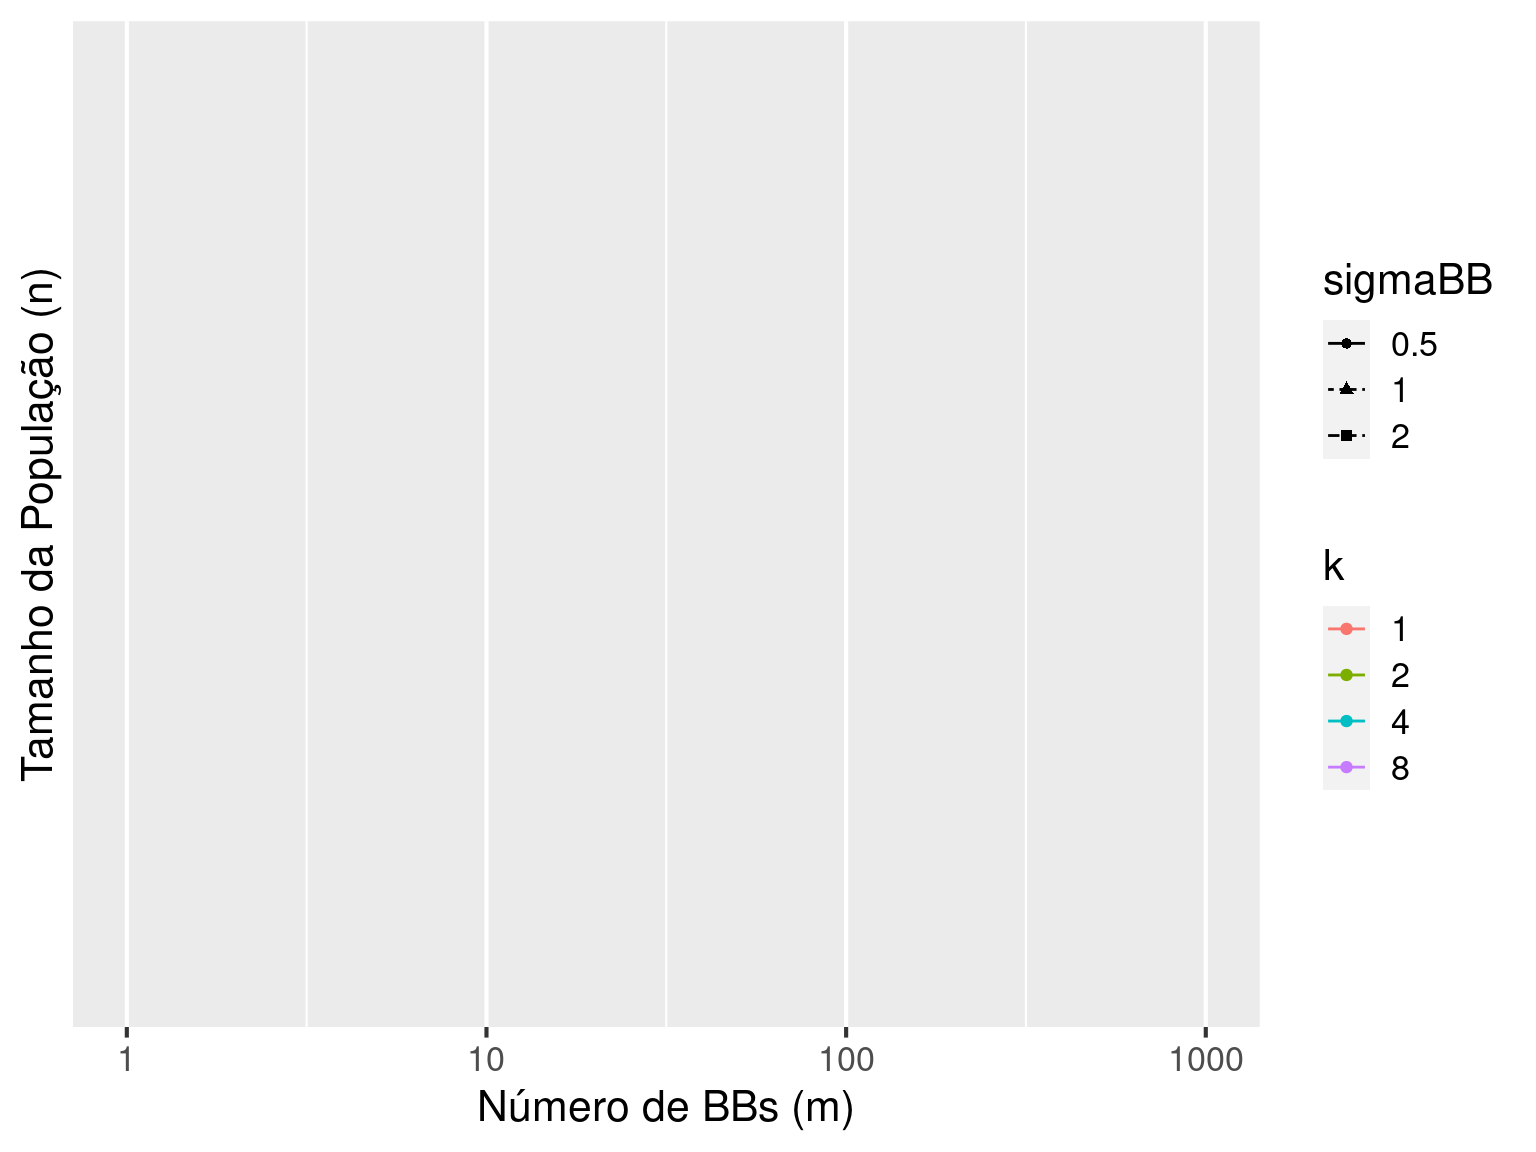
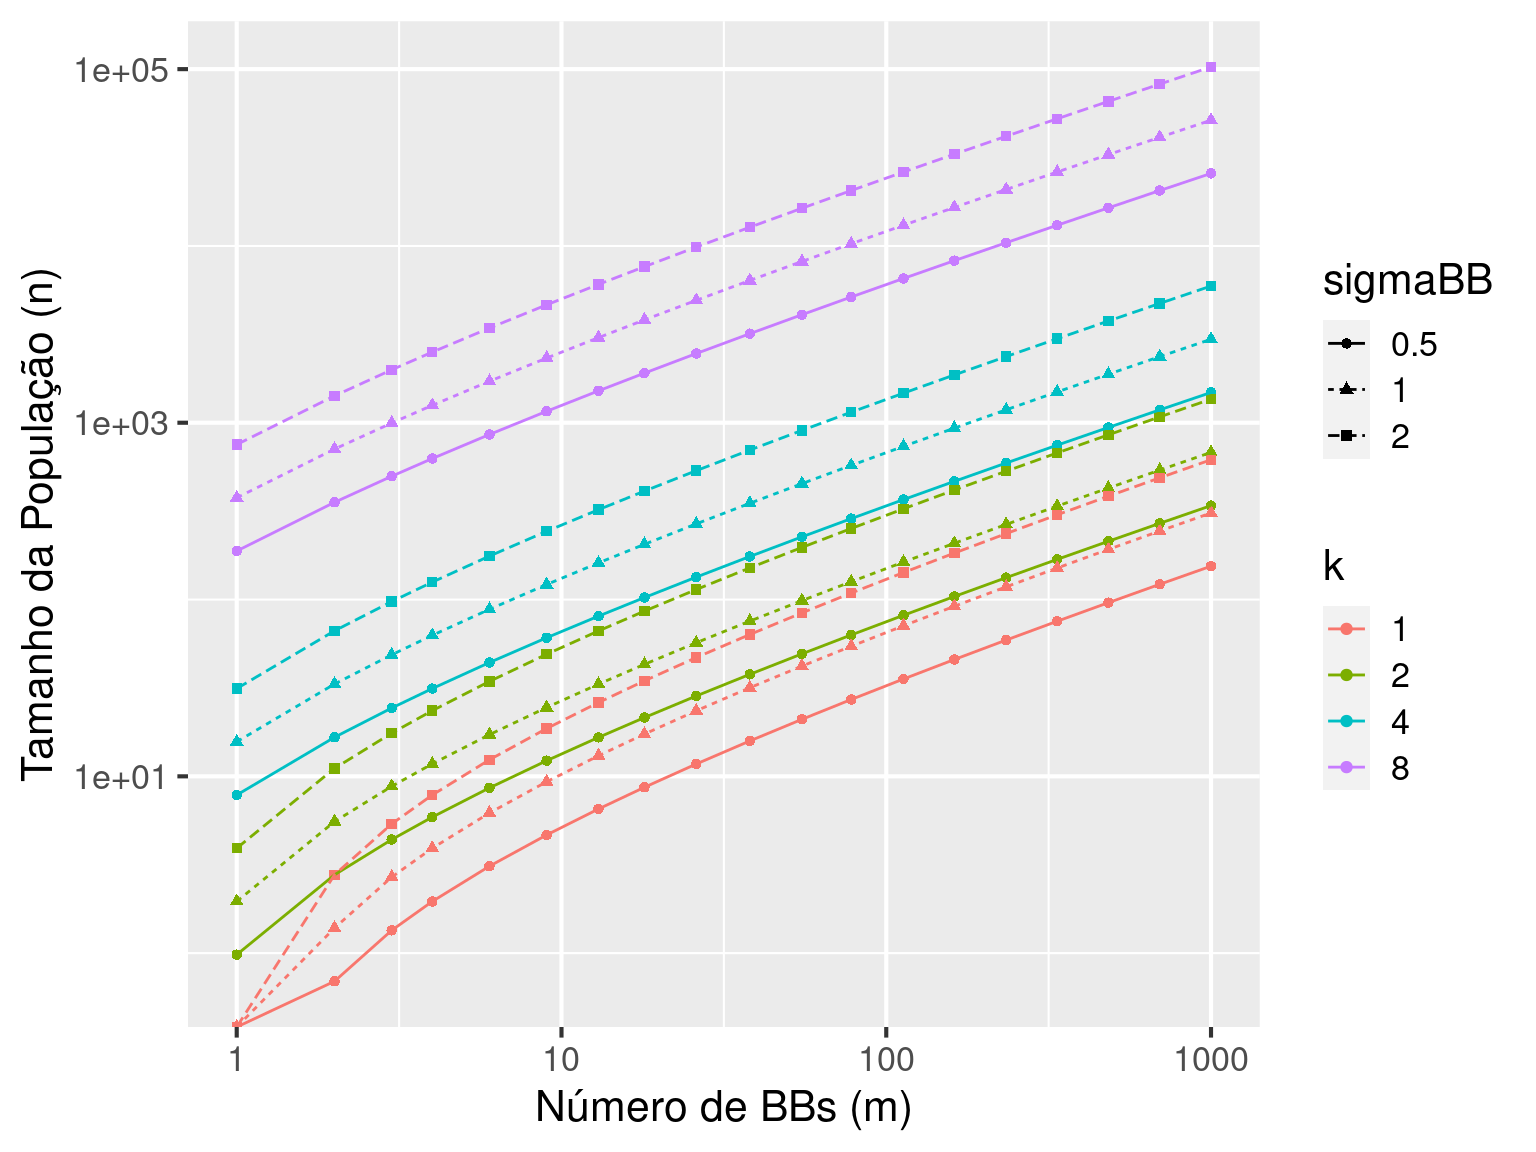
ex2 data

diff --git a/docs/posts/2020-12-23-exerccio-2/index.html b/docs/posts/2020-12-23-exerccio-2/index.html
@@ -25,8 +25,8 @@
 
 
 <!--  https://schema.org/Article -->
-<meta property="article:published" itemprop="datePublished" content="2020-12-23"/>
-<meta property="article:created" itemprop="dateCreated" content="2020-12-23"/>
+<meta property="article:published" itemprop="datePublished" content="2020-12-22"/>
+<meta property="article:created" itemprop="dateCreated" content="2020-12-22"/>
 <meta name="article:author" content="Athos Damiani"/>
 
 <!--  https://developers.facebook.com/docs/sharing/webmasters#markup -->
@@ -45,12 +45,12 @@
   <!--radix_placeholder_rmarkdown_metadata-->
 
 <script type="text/json" id="radix-rmarkdown-metadata">
-{"type":"list","attributes":{"names":{"type":"character","attributes":{},"value":["title","description","author","date","output"]}},"value":[{"type":"character","attributes":{},"value":["Exercício 2"]},{"type":"character","attributes":{},"value":["Sobre risco de ótimos locais dominarem."]},{"type":"list","attributes":{},"value":[{"type":"list","attributes":{"names":{"type":"character","attributes":{},"value":["name","url"]}},"value":[{"type":"character","attributes":{},"value":["Athos Damiani"]},{"type":"list","attributes":{"names":{"type":"character","attributes":{},"value":[]}},"value":[]}]}]},{"type":"character","attributes":{},"value":["12-23-2020"]},{"type":"list","attributes":{"names":{"type":"character","attributes":{},"value":["distill::distill_article"]}},"value":[{"type":"list","attributes":{"names":{"type":"character","attributes":{},"value":["self_contained"]}},"value":[{"type":"logical","attributes":{},"value":[false]}]}]}]}
+{"type":"list","attributes":{"names":{"type":"character","attributes":{},"value":["title","description","author","date","output"]}},"value":[{"type":"character","attributes":{},"value":["Exercício 2"]},{"type":"character","attributes":{},"value":["Sobre risco de ótimos locais dominarem."]},{"type":"list","attributes":{},"value":[{"type":"list","attributes":{"names":{"type":"character","attributes":{},"value":["name","url"]}},"value":[{"type":"character","attributes":{},"value":["Athos Damiani"]},{"type":"list","attributes":{"names":{"type":"character","attributes":{},"value":[]}},"value":[]}]}]},{"type":"character","attributes":{},"value":["12-22-2020"]},{"type":"list","attributes":{"names":{"type":"character","attributes":{},"value":["distill::distill_article"]}},"value":[{"type":"list","attributes":{"names":{"type":"character","attributes":{},"value":["self_contained"]}},"value":[{"type":"logical","attributes":{},"value":[false]}]}]}]}
 </script>
 <!--/radix_placeholder_rmarkdown_metadata-->
   
   <script type="text/json" id="radix-resource-manifest">
-  {"type":"character","attributes":{},"value":["exerccio-2_files/bowser-1.9.3/bowser.min.js","exerccio-2_files/core-js-2.5.3/LICENSE","exerccio-2_files/core-js-2.5.3/package.json","exerccio-2_files/core-js-2.5.3/shim.min.js","exerccio-2_files/crosstalk-1.1.0.1/css/crosstalk.css","exerccio-2_files/crosstalk-1.1.0.1/js/crosstalk.js","exerccio-2_files/crosstalk-1.1.0.1/js/crosstalk.js.map","exerccio-2_files/crosstalk-1.1.0.1/js/crosstalk.min.js","exerccio-2_files/crosstalk-1.1.0.1/js/crosstalk.min.js.map","exerccio-2_files/datatables-binding-0.14/datatables.js","exerccio-2_files/datatables-css-0.0.0/datatables-crosstalk.css","exerccio-2_files/distill-2.2.21/template.v2.js","exerccio-2_files/dt-core-1.10.20/css/jquery.dataTables.extra.css","exerccio-2_files/dt-core-1.10.20/css/jquery.dataTables.min.css","exerccio-2_files/dt-core-1.10.20/js/jquery.dataTables.min.js","exerccio-2_files/figure-html5/unnamed-chunk-4-1.png","exerccio-2_files/figure-html5/unnamed-chunk-6-1.png","exerccio-2_files/htmlwidgets-1.5.1/htmlwidgets.js","exerccio-2_files/jquery-1.11.3/jquery.min.js","exerccio-2_files/jquery-1.12.4/jquery.min.js","exerccio-2_files/jquery-1.12.4/LICENSE.txt","exerccio-2_files/react-16.12.0/AUTHORS","exerccio-2_files/react-16.12.0/LICENSE.txt","exerccio-2_files/react-16.12.0/react-dom.min.js","exerccio-2_files/react-16.12.0/react.min.js","exerccio-2_files/reactable-binding-0.2.0/reactable.js","exerccio-2_files/reactwidget-1.0.0/react-tools.js","exerccio-2_files/reactwidget-1.0.0/react-tools.js.map","exerccio-2_files/webcomponents-2.0.0/webcomponents.js"]}
+  {"type":"character","attributes":{},"value":["exerccio-2_files/bowser-1.9.3/bowser.min.js","exerccio-2_files/core-js-2.5.3/LICENSE","exerccio-2_files/core-js-2.5.3/package.json","exerccio-2_files/core-js-2.5.3/shim.min.js","exerccio-2_files/crosstalk-1.1.0.1/css/crosstalk.css","exerccio-2_files/crosstalk-1.1.0.1/js/crosstalk.js","exerccio-2_files/crosstalk-1.1.0.1/js/crosstalk.js.map","exerccio-2_files/crosstalk-1.1.0.1/js/crosstalk.min.js","exerccio-2_files/crosstalk-1.1.0.1/js/crosstalk.min.js.map","exerccio-2_files/datatables-binding-0.14/datatables.js","exerccio-2_files/datatables-css-0.0.0/datatables-crosstalk.css","exerccio-2_files/distill-2.2.21/template.v2.js","exerccio-2_files/dt-core-1.10.20/css/jquery.dataTables.extra.css","exerccio-2_files/dt-core-1.10.20/css/jquery.dataTables.min.css","exerccio-2_files/dt-core-1.10.20/js/jquery.dataTables.min.js","exerccio-2_files/figure-html5/unnamed-chunk-4-1.png","exerccio-2_files/figure-html5/unnamed-chunk-6-1.png","exerccio-2_files/figure-html5/unnamed-chunk-7-1.png","exerccio-2_files/htmlwidgets-1.5.1/htmlwidgets.js","exerccio-2_files/jquery-1.11.3/jquery.min.js","exerccio-2_files/jquery-1.12.4/jquery.min.js","exerccio-2_files/jquery-1.12.4/LICENSE.txt","exerccio-2_files/react-16.12.0/AUTHORS","exerccio-2_files/react-16.12.0/LICENSE.txt","exerccio-2_files/react-16.12.0/react-dom.min.js","exerccio-2_files/react-16.12.0/react.min.js","exerccio-2_files/reactable-binding-0.2.0/reactable.js","exerccio-2_files/reactwidget-1.0.0/react-tools.js","exerccio-2_files/reactwidget-1.0.0/react-tools.js.map","exerccio-2_files/webcomponents-2.0.0/webcomponents.js"]}
   </script>
   <!--radix_placeholder_navigation_in_header-->
 
@@ -1290,7 +1290,7 @@ document.addEventListener('DOMContentLoaded', function() {
 <!--radix_placeholder_front_matter-->
 
 <script id="distill-front-matter" type="text/json">
-{"title":"Exercício 2","description":"Sobre risco de ótimos locais dominarem.","authors":[{"author":"Athos Damiani","authorURL":{},"affiliation":"&nbsp;","affiliationURL":"#"}],"publishedDate":"2020-12-23T00:00:00.000-03:00","citationText":"Damiani, 2020"}
+{"title":"Exercício 2","description":"Sobre risco de ótimos locais dominarem.","authors":[{"author":"Athos Damiani","authorURL":{},"affiliation":"&nbsp;","affiliationURL":"#"}],"publishedDate":"2020-12-22T00:00:00.000-03:00","citationText":"Damiani, 2020"}
 </script>
 
 <!--/radix_placeholder_front_matter-->
@@ -1318,7 +1318,7 @@ document.addEventListener('DOMContentLoaded', function() {
 <div class="d-byline">
   Athos Damiani true 
   
-<br/>12-23-2020
+<br/>12-22-2020
 </div>
 
 <div class="d-article">
@@ -1378,7 +1378,7 @@ n \approx -\ln(\alpha) 2^{k-1}\frac{\sigma_{BB}\sqrt(2m)}{d}
 <div class="layout-chunk" data-layout="l-body">
 <pre class="r"><code>
 # funcao n da população teórica
-n_teorico &lt;- function(k, m, s, d, a) log(a) * 2^(k-1) * s * sqrt(2*m)/d</code></pre>
+n_teorico &lt;- function(k, m, s, d, a) -log(a) * 2^(k-1) * s * sqrt(2*m)/d</code></pre>
 </div>
 <div class="layout-chunk" data-layout="l-body">
 <pre class="r"><code>
@@ -1433,8 +1433,8 @@ knitr::kable(head(parametros))</code></pre>
 <td style="text-align: right;">0.5</td>
 <td style="text-align: right;">1</td>
 <td style="text-align: right;">0.500</td>
-<td style="text-align: right;">-0.9802581</td>
-<td style="text-align: right;">-0.9802581</td>
+<td style="text-align: right;">0.9802581</td>
+<td style="text-align: right;">0.9802581</td>
 </tr>
 <tr class="odd">
 <td style="text-align: right;">4</td>
@@ -1442,8 +1442,8 @@ knitr::kable(head(parametros))</code></pre>
 <td style="text-align: right;">0.5</td>
 <td style="text-align: right;">1</td>
 <td style="text-align: right;">0.250</td>
-<td style="text-align: right;">-7.8420651</td>
-<td style="text-align: right;">-7.8420651</td>
+<td style="text-align: right;">7.8420651</td>
+<td style="text-align: right;">7.8420651</td>
 </tr>
 <tr class="even">
 <td style="text-align: right;">8</td>
@@ -1451,8 +1451,8 @@ knitr::kable(head(parametros))</code></pre>
 <td style="text-align: right;">0.5</td>
 <td style="text-align: right;">1</td>
 <td style="text-align: right;">0.125</td>
-<td style="text-align: right;">-188.2095635</td>
-<td style="text-align: right;">-188.2095635</td>
+<td style="text-align: right;">188.2095635</td>
+<td style="text-align: right;">188.2095635</td>
 </tr>
 <tr class="odd">
 <td style="text-align: right;">1</td>
@@ -1460,8 +1460,8 @@ knitr::kable(head(parametros))</code></pre>
 <td style="text-align: right;">0.5</td>
 <td style="text-align: right;">1</td>
 <td style="text-align: right;">0.500</td>
-<td style="text-align: right;">-0.6931472</td>
-<td style="text-align: right;">-0.6931472</td>
+<td style="text-align: right;">0.6931472</td>
+<td style="text-align: right;">0.6931472</td>
 </tr>
 <tr class="even">
 <td style="text-align: right;">2</td>
@@ -1469,8 +1469,8 @@ knitr::kable(head(parametros))</code></pre>
 <td style="text-align: right;">0.5</td>
 <td style="text-align: right;">1</td>
 <td style="text-align: right;">0.250</td>
-<td style="text-align: right;">-2.7725887</td>
-<td style="text-align: right;">-2.7725887</td>
+<td style="text-align: right;">2.7725887</td>
+<td style="text-align: right;">2.7725887</td>
 </tr>
 </tbody>
 </table>

diff --git a/_posts/2020-12-23-exerccio-2/exerccio-2.html b/_posts/2020-12-23-exerccio-2/exerccio-2.html
@@ -25,8 +25,8 @@
   
   
   <!--  https://schema.org/Article -->
-  <meta property="article:published" itemprop="datePublished" content="2020-12-23"/>
-  <meta property="article:created" itemprop="dateCreated" content="2020-12-23"/>
+  <meta property="article:published" itemprop="datePublished" content="2020-12-22"/>
+  <meta property="article:created" itemprop="dateCreated" content="2020-12-22"/>
   <meta name="article:author" content="Athos Damiani"/>
   
   <!--  https://developers.facebook.com/docs/sharing/webmasters#markup -->
@@ -44,12 +44,12 @@
   <!--radix_placeholder_rmarkdown_metadata-->
   
   <script type="text/json" id="radix-rmarkdown-metadata">
-  {"type":"list","attributes":{"names":{"type":"character","attributes":{},"value":["title","description","author","date","output"]}},"value":[{"type":"character","attributes":{},"value":["Exercício 2"]},{"type":"character","attributes":{},"value":["Sobre risco de ótimos locais dominarem.\n"]},{"type":"list","attributes":{},"value":[{"type":"list","attributes":{"names":{"type":"character","attributes":{},"value":["name","url"]}},"value":[{"type":"character","attributes":{},"value":["Athos Damiani"]},{"type":"list","attributes":{"names":{"type":"character","attributes":{},"value":[]}},"value":[]}]}]},{"type":"character","attributes":{},"value":["12-23-2020"]},{"type":"list","attributes":{"names":{"type":"character","attributes":{},"value":["distill::distill_article"]}},"value":[{"type":"list","attributes":{"names":{"type":"character","attributes":{},"value":["self_contained"]}},"value":[{"type":"logical","attributes":{},"value":[false]}]}]}]}
+  {"type":"list","attributes":{"names":{"type":"character","attributes":{},"value":["title","description","author","date","output"]}},"value":[{"type":"character","attributes":{},"value":["Exercício 2"]},{"type":"character","attributes":{},"value":["Sobre risco de ótimos locais dominarem.\n"]},{"type":"list","attributes":{},"value":[{"type":"list","attributes":{"names":{"type":"character","attributes":{},"value":["name","url"]}},"value":[{"type":"character","attributes":{},"value":["Athos Damiani"]},{"type":"list","attributes":{"names":{"type":"character","attributes":{},"value":[]}},"value":[]}]}]},{"type":"character","attributes":{},"value":["12-22-2020"]},{"type":"list","attributes":{"names":{"type":"character","attributes":{},"value":["distill::distill_article"]}},"value":[{"type":"list","attributes":{"names":{"type":"character","attributes":{},"value":["self_contained"]}},"value":[{"type":"logical","attributes":{},"value":[false]}]}]}]}
   </script>
   <!--/radix_placeholder_rmarkdown_metadata-->
   
   <script type="text/json" id="radix-resource-manifest">
-  {"type":"character","attributes":{},"value":["exerccio-2_files/bowser-1.9.3/bowser.min.js","exerccio-2_files/core-js-2.5.3/LICENSE","exerccio-2_files/core-js-2.5.3/package.json","exerccio-2_files/core-js-2.5.3/shim.min.js","exerccio-2_files/crosstalk-1.1.0.1/css/crosstalk.css","exerccio-2_files/crosstalk-1.1.0.1/js/crosstalk.js","exerccio-2_files/crosstalk-1.1.0.1/js/crosstalk.js.map","exerccio-2_files/crosstalk-1.1.0.1/js/crosstalk.min.js","exerccio-2_files/crosstalk-1.1.0.1/js/crosstalk.min.js.map","exerccio-2_files/datatables-binding-0.14/datatables.js","exerccio-2_files/datatables-css-0.0.0/datatables-crosstalk.css","exerccio-2_files/distill-2.2.21/template.v2.js","exerccio-2_files/dt-core-1.10.20/css/jquery.dataTables.extra.css","exerccio-2_files/dt-core-1.10.20/css/jquery.dataTables.min.css","exerccio-2_files/dt-core-1.10.20/js/jquery.dataTables.min.js","exerccio-2_files/figure-html5/unnamed-chunk-4-1.png","exerccio-2_files/figure-html5/unnamed-chunk-6-1.png","exerccio-2_files/htmlwidgets-1.5.1/htmlwidgets.js","exerccio-2_files/jquery-1.11.3/jquery.min.js","exerccio-2_files/jquery-1.12.4/jquery.min.js","exerccio-2_files/jquery-1.12.4/LICENSE.txt","exerccio-2_files/react-16.12.0/AUTHORS","exerccio-2_files/react-16.12.0/LICENSE.txt","exerccio-2_files/react-16.12.0/react-dom.min.js","exerccio-2_files/react-16.12.0/react.min.js","exerccio-2_files/reactable-binding-0.2.0/reactable.js","exerccio-2_files/reactwidget-1.0.0/react-tools.js","exerccio-2_files/reactwidget-1.0.0/react-tools.js.map","exerccio-2_files/webcomponents-2.0.0/webcomponents.js"]}
+  {"type":"character","attributes":{},"value":["exerccio-2_files/bowser-1.9.3/bowser.min.js","exerccio-2_files/core-js-2.5.3/LICENSE","exerccio-2_files/core-js-2.5.3/package.json","exerccio-2_files/core-js-2.5.3/shim.min.js","exerccio-2_files/crosstalk-1.1.0.1/css/crosstalk.css","exerccio-2_files/crosstalk-1.1.0.1/js/crosstalk.js","exerccio-2_files/crosstalk-1.1.0.1/js/crosstalk.js.map","exerccio-2_files/crosstalk-1.1.0.1/js/crosstalk.min.js","exerccio-2_files/crosstalk-1.1.0.1/js/crosstalk.min.js.map","exerccio-2_files/datatables-binding-0.14/datatables.js","exerccio-2_files/datatables-css-0.0.0/datatables-crosstalk.css","exerccio-2_files/distill-2.2.21/template.v2.js","exerccio-2_files/dt-core-1.10.20/css/jquery.dataTables.extra.css","exerccio-2_files/dt-core-1.10.20/css/jquery.dataTables.min.css","exerccio-2_files/dt-core-1.10.20/js/jquery.dataTables.min.js","exerccio-2_files/figure-html5/unnamed-chunk-4-1.png","exerccio-2_files/figure-html5/unnamed-chunk-6-1.png","exerccio-2_files/figure-html5/unnamed-chunk-7-1.png","exerccio-2_files/htmlwidgets-1.5.1/htmlwidgets.js","exerccio-2_files/jquery-1.11.3/jquery.min.js","exerccio-2_files/jquery-1.12.4/jquery.min.js","exerccio-2_files/jquery-1.12.4/LICENSE.txt","exerccio-2_files/react-16.12.0/AUTHORS","exerccio-2_files/react-16.12.0/LICENSE.txt","exerccio-2_files/react-16.12.0/react-dom.min.js","exerccio-2_files/react-16.12.0/react.min.js","exerccio-2_files/reactable-binding-0.2.0/reactable.js","exerccio-2_files/reactwidget-1.0.0/react-tools.js","exerccio-2_files/reactwidget-1.0.0/react-tools.js.map","exerccio-2_files/webcomponents-2.0.0/webcomponents.js"]}
   </script>
   <!--radix_placeholder_navigation_in_header-->
   <!--/radix_placeholder_navigation_in_header-->
@@ -952,7 +952,7 @@
 <!--radix_placeholder_front_matter-->
 
 <script id="distill-front-matter" type="text/json">
-{"title":"Exercício 2","description":"Sobre risco de ótimos locais dominarem.","authors":[{"author":"Athos Damiani","authorURL":{},"affiliation":"&nbsp;","affiliationURL":"#"}],"publishedDate":"2020-12-23T00:00:00.000-03:00","citationText":"Damiani, 2020"}
+{"title":"Exercício 2","description":"Sobre risco de ótimos locais dominarem.","authors":[{"author":"Athos Damiani","authorURL":{},"affiliation":"&nbsp;","affiliationURL":"#"}],"publishedDate":"2020-12-22T00:00:00.000-03:00","citationText":"Damiani, 2020"}
 </script>
 
 <!--/radix_placeholder_front_matter-->
@@ -969,7 +969,7 @@
 <div class="d-byline">
   Athos Damiani true 
   
-<br/>12-23-2020
+<br/>12-22-2020
 </div>
 
 <div class="d-article">
@@ -1029,7 +1029,7 @@ n \approx -\ln(\alpha) 2^{k-1}\frac{\sigma_{BB}\sqrt(2m)}{d}
 <div class="layout-chunk" data-layout="l-body">
 <pre class="r"><code>
 # funcao n da população teórica
-n_teorico &lt;- function(k, m, s, d, a) log(a) * 2^(k-1) * s * sqrt(2*m)/d</code></pre>
+n_teorico &lt;- function(k, m, s, d, a) -log(a) * 2^(k-1) * s * sqrt(2*m)/d</code></pre>
 </div>
 <div class="layout-chunk" data-layout="l-body">
 <pre class="r"><code>
@@ -1084,8 +1084,8 @@ knitr::kable(head(parametros))</code></pre>
 <td style="text-align: right;">0.5</td>
 <td style="text-align: right;">1</td>
 <td style="text-align: right;">0.500</td>
-<td style="text-align: right;">-0.9802581</td>
-<td style="text-align: right;">-0.9802581</td>
+<td style="text-align: right;">0.9802581</td>
+<td style="text-align: right;">0.9802581</td>
 </tr>
 <tr class="odd">
 <td style="text-align: right;">4</td>
@@ -1093,8 +1093,8 @@ knitr::kable(head(parametros))</code></pre>
 <td style="text-align: right;">0.5</td>
 <td style="text-align: right;">1</td>
 <td style="text-align: right;">0.250</td>
-<td style="text-align: right;">-7.8420651</td>
-<td style="text-align: right;">-7.8420651</td>
+<td style="text-align: right;">7.8420651</td>
+<td style="text-align: right;">7.8420651</td>
 </tr>
 <tr class="even">
 <td style="text-align: right;">8</td>
@@ -1102,8 +1102,8 @@ knitr::kable(head(parametros))</code></pre>
 <td style="text-align: right;">0.5</td>
 <td style="text-align: right;">1</td>
 <td style="text-align: right;">0.125</td>
-<td style="text-align: right;">-188.2095635</td>
-<td style="text-align: right;">-188.2095635</td>
+<td style="text-align: right;">188.2095635</td>
+<td style="text-align: right;">188.2095635</td>
 </tr>
 <tr class="odd">
 <td style="text-align: right;">1</td>
@@ -1111,8 +1111,8 @@ knitr::kable(head(parametros))</code></pre>
 <td style="text-align: right;">0.5</td>
 <td style="text-align: right;">1</td>
 <td style="text-align: right;">0.500</td>
-<td style="text-align: right;">-0.6931472</td>
-<td style="text-align: right;">-0.6931472</td>
+<td style="text-align: right;">0.6931472</td>
+<td style="text-align: right;">0.6931472</td>
 </tr>
 <tr class="even">
 <td style="text-align: right;">2</td>
@@ -1120,8 +1120,8 @@ knitr::kable(head(parametros))</code></pre>
 <td style="text-align: right;">0.5</td>
 <td style="text-align: right;">1</td>
 <td style="text-align: right;">0.250</td>
-<td style="text-align: right;">-2.7725887</td>
-<td style="text-align: right;">-2.7725887</td>
+<td style="text-align: right;">2.7725887</td>
+<td style="text-align: right;">2.7725887</td>
 </tr>
 </tbody>
 </table>

diff --git a/docs/index.html b/docs/index.html
@@ -1618,10 +1618,23 @@ function init_posts_list() {
 <div class="posts-container posts-apply-limit l-page">
 <div class="posts-list">
 <h1 class="posts-list-caption">Exercícios para SSC5980</h1>
-<a href="posts/2020-12-23-exerccio-2/" class="post-preview">
+<a href="posts/2020-12-23-exerccio-3/" class="post-preview">
 <script class="post-metadata" type="text/json">{"categories":[]}</script>
 <div class="metadata">
 <div class="publishedDate">Dec. 23, 2020</div>
+</div>
+<div class="thumbnail">
+<img/>
+</div>
+<div class="description">
+<h2>Exercício 3</h2>
+<p>Sobre análise temporal.</p>
+</div>
+</a>
+<a href="posts/2020-12-23-exerccio-2/" class="post-preview">
+<script class="post-metadata" type="text/json">{"categories":[]}</script>
+<div class="metadata">
+<div class="publishedDate">Dec. 22, 2020</div>
 </div>
 <div class="thumbnail">
 <img data-src="posts/2020-12-23-exerccio-2/exerccio-2_files/figure-html5/unnamed-chunk-6-1.png"/>
@@ -1629,17 +1642,6 @@ function init_posts_list() {
 <div class="description">
 <h2>Exercício 2</h2>
 <p>Sobre risco de ótimos locais dominarem.</p>
-</div>
-</a>
-<a href="posts/2020-12-23-exerccio-3/" class="post-preview">
-<script class="post-metadata" type="text/json">{"categories":[]}</script>
-<div class="metadata">
-<div class="publishedDate">Dec. 23, 2020</div>
-</div>
-<div class="thumbnail"></div>
-<div class="description">
-<h2>Exercício 3</h2>
-<p>Sobre análise temporal.</p>
 </div>
 </a>
 <a href="posts/2020-12-20-exerccio-1/" class="post-preview">
